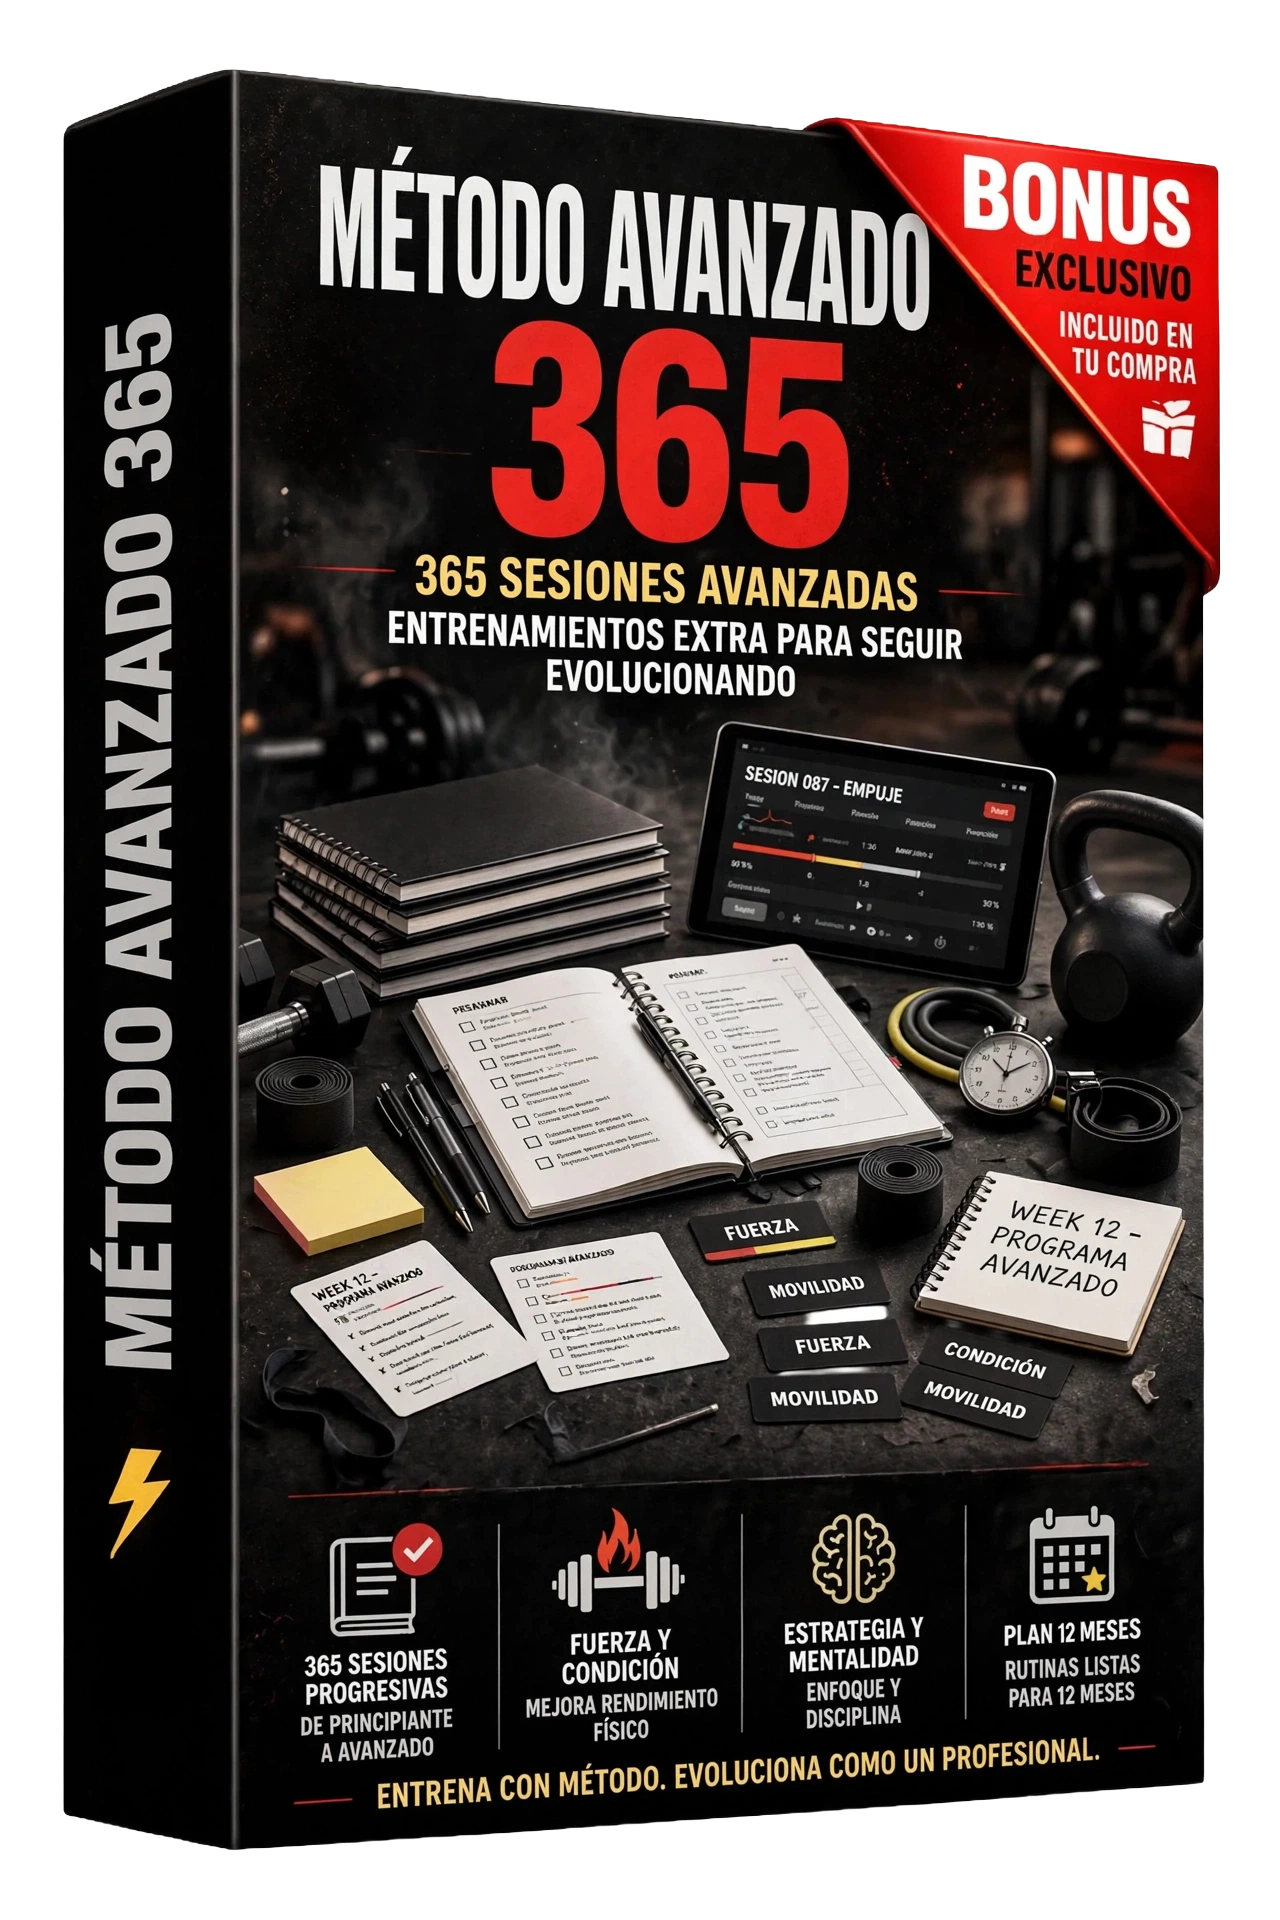
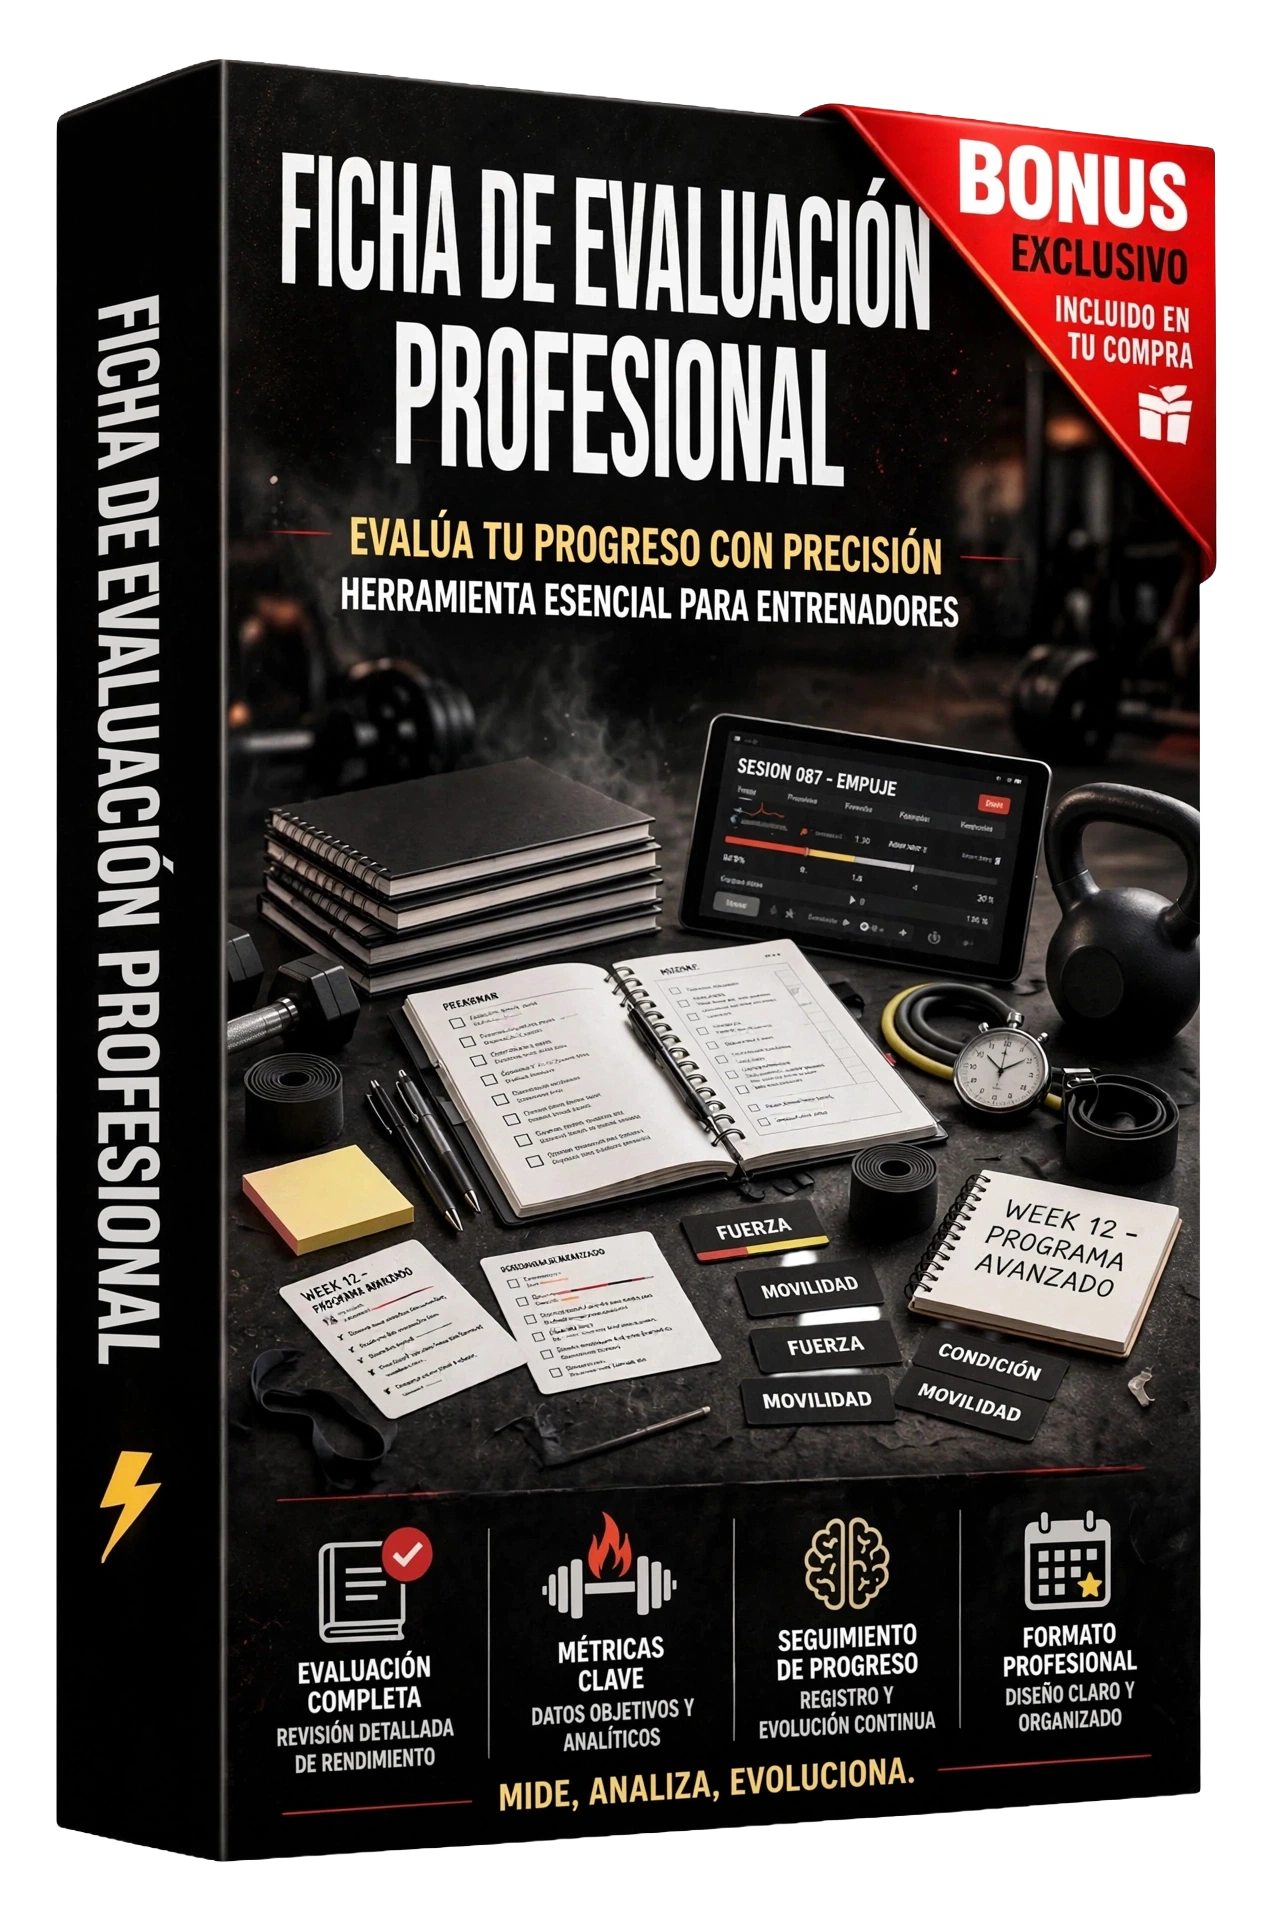
Update Bono 03 title to Ficha de Evaluación Profesional

Changed region(s): [[0.0312, 0.0312, 0.9688, 0.9688], [0.9375, 0.8125, 0.9688, 0.9062], [0.9375, 0.6875, 0.9688, 0.7188]]

diff --git a/index.html b/index.html
@@ -717,10 +717,10 @@
         </div>
       </div>
       <div class="bonus-card punch">
-        <div class="bonus-photo"><img src="biblioteca.webp" alt="100 Entrenamientos Avanzados de Boxeo"></div>
+        <div class="bonus-photo"><img src="biblioteca.webp" alt="Ficha de Evaluación Profesional"></div>
         <div>
           <span class="bonus-num">Bono 03</span>
-          <h4>100 Entrenamientos Avanzados de Boxeo</h4>
+          <h4>Ficha de Evaluación Profesional</h4>
           <p>Lleva tu entrenamiento al siguiente nivel con rutinas de alta intensidad para todo el año.</p>
           <div class="price-row"><span class="price-old">de $19</span><span class="price-free">Por $0.00</span></div>
         </div>